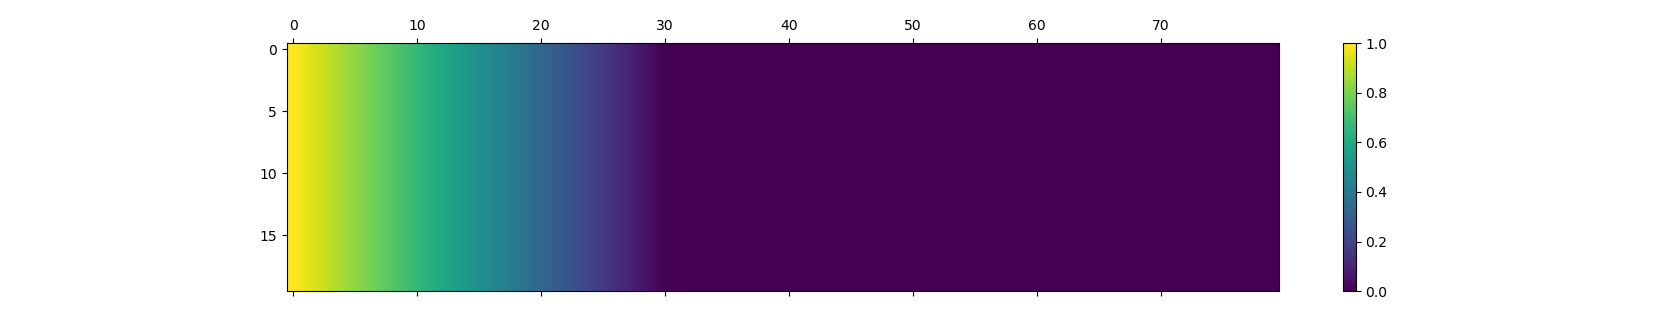
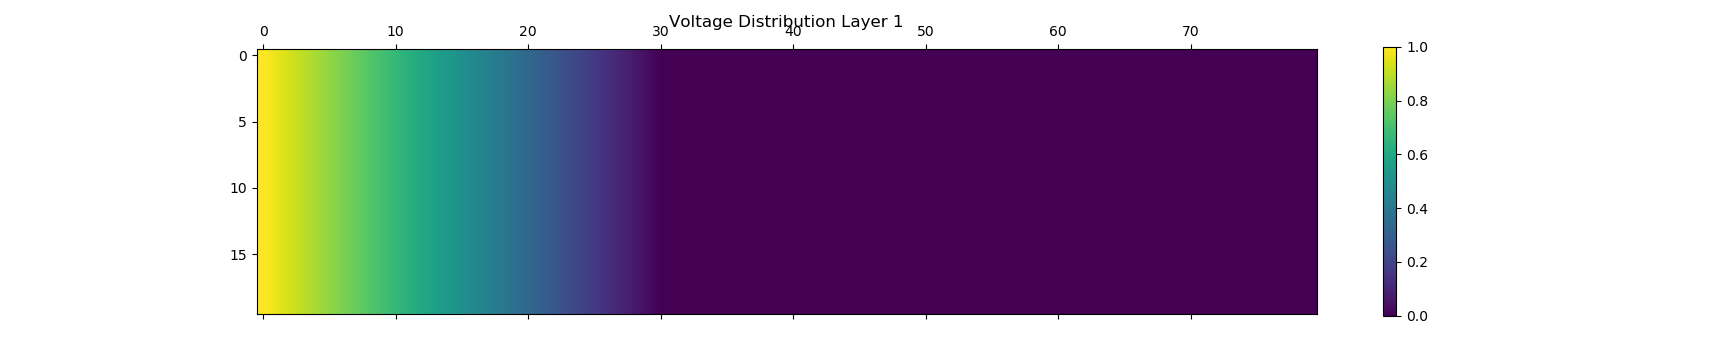
Test Results

diff --git a/main.py b/main.py
@@ -191,7 +191,9 @@ for i in range(row2):
 
 plt.matshow(V1,interpolation='spline36')
 plt.colorbar()
+plt.title("Voltage Distribution Layer 1")
 plt.show()
 plt.matshow(V2.T,interpolation='spline36',origin='lower')
 plt.colorbar()
+plt.title("Voltage Distribution Layer 2")
 plt.show()
